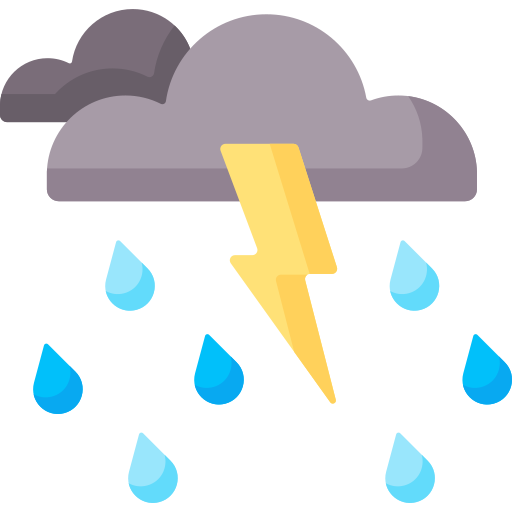
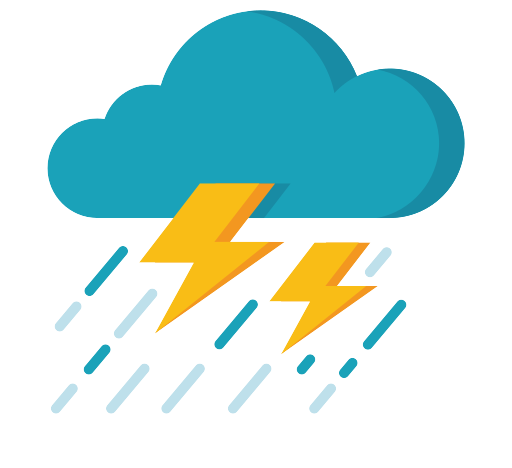
Cambios en el diseño

diff --git a/index.js b/index.js
@@ -10,7 +10,6 @@ window.addEventListener('load', ()=> {
     let descripcion = document.getElementById('descripcion')
     let imagen = document.getElementById('imagen_clima')
 
-    let sensacion = document.getElementById('sensacion')
     let viento = document.getElementById('viento')
     let humedad = document.getElementById('humedad')
 
@@ -65,44 +64,36 @@ window.addEventListener('load', ()=> {
                     ubicacion.textContent = data.name  // obtengo el nombre de la ciudad
                     datos.textContent = `${diaDeLaSemana} ${diaActual}, ${horaActual}:${minutosActuales}hs` // imprimo la fecha y hora del día en tiempo real
 
-                    
-                    temperatura.textContent = Math.round(data.main.temp) + '°C' // obtengo la temperatura y la imprimo 
-                    descripcion.textContent = data.weather[0].description // obtengo la descripción del clima y la imprimo 
-
-                    sensacion.textContent = Math.round(data.main.feels_like) + '°C' // obtengo la sensación térmica y la imprimo
-                    viento.textContent = `${data.wind.speed}m/s` // obtengo la velocidad del viento y la imprimo 
-                    humedad.textContent = `${data.main.humidity}%` // obtengo el % de humedad y al imprimo 
-
                     let codigoImg = data.weather[0].icon; // obtengo el código de tipo de clima
                     // creo un condiciona que devuelve una imagen de acuerdo al código del clima*/
-                    if(codigoImg == '01d'){
-                        imagen.src='img/dia_despejado.png';
+                    if(codigoImg == '01d' || codigoImg == '01n'){
+                        imagen.src='img/despejado.png.png';
                     }
-                    else if(codigoImg == '02d'){
-                        imagen.src='img/dia_nublado.png';
-                    }
-                    else if(codigoImg == '03d' || codigoImg == '03n' || codigoImg == '04d' || codigoImg == '04n'){
+                    else if(codigoImg == '02d' || codigoImg == '02n' || codigoImg == '03d' || codigoImg == '03n' || codigoImg == '04d' || codigoImg == '04n'){
                         imagen.src='img/nublado.png';
                     }
                     else if(codigoImg == '09d' || codigoImg == '09n'){
-                        imagen.src='img/lluvia.png';
+                        imagen.src='img/lluvioso.png.png.png';
                     }
                     else if(codigoImg == '11d' || codigoImg == '11n'){
-                        imagen.src='img/tormenta.png';
-                    }
-                    else if(codigoImg == '01n'){
-                        imagen.src='img/noche_despejadaa.png';
-                    }
-                    else if(codigoImg == '02n'){
-                        imagen.src='img/noche_nublada.png';
+                        imagen.src='img/tormenta.png.png';
                     }
                     else if(codigoImg == '13d' || codigoImg =='13n'){
                         imagen.src='img/nieve.png';
                     }
                     else{
-                        imagen.src='img/neblina.png'
+                        imagen.src='img/neblina.png.png'
                     }
+                    
+                    temperatura.textContent = Math.round(data.main.temp) + '°C' // obtengo la temperatura y la imprimo 
+                    descripcion.textContent = data.weather[0].description // obtengo la descripción del clima y la imprimo 
+
+                    viento.textContent = `${data.wind.speed}m/s` // obtengo la velocidad del viento y la imprimo 
+                    humedad.textContent = `${data.main.humidity}%` // obtengo el % de humedad y al imprimo 
                 })
+            .catch( error => {
+                console.log(error)
+            })
         })
     }
 })

diff --git a/style.css b/style.css
@@ -1,19 +1,29 @@
 @import url('https://fonts.googleapis.com/css2?family=Montserrat&family=Roboto+Flex:opsz@8..144&display=swap');
 
-body{
+*{
+    margin: 0;
+    padding: 0;
+    border: 0;
+    outline: none;
     box-sizing: border-box;
+}
+
+body{
     height: 100vh;
     display: flex;
     justify-content: center;
     align-items: center;
     font-family: 'Roboto Flex', sans-serif;
-    background-color: #2c2d2e;
+    background-color: #06283D;
 }
 
 
 .container{
-    background-color: #dddddd;
-    border-radius: 10px;
+    width: 300px;
+    background-color: #ffffff;
+    border-radius: 18px;
+    color: #06283D;
+    padding: 28px 32px;
 }
 
 .seccion-datos-ciudad{
@@ -25,72 +35,46 @@ body{
     margin-bottom: 0;
 }
 
-.seccion-datos-ciudad p{
-    margin-top: 0;
-}
-
-.seccion-temperatura{
-    display: flex;
-    justify-content: center;
-    text-align: center;
-    align-items: center;
-
-}
-
-.seccion-temperatura h2{
-    font-size: 70px;
-    margin: 0;
-}
-
-.seccion-temperatura .temp-desc{
-    margin-right: 20px;
-}
-
-.seccion-temperatura p{
-    margin: 0;
-    color: #767676;
-    font-weight: 500;
-}
 
 .seccion-temperatura img{
     width: 100px;
+    margin-top: 20px;
+}
+
+.seccion-temperatura{
+    text-align: center;
+}
+
+.seccion-temperatura #temperatura{
+    font-size: 70px;
+    font-weight: 800;
+    margin-top: 10px;
+}
+
+.seccion-temperatura #descripcion{
+    font-size: 20px;
+    font-weight: 500;
 }
 
 .seccion-info-adicional{
+    width: 100%;
     display: flex;
-    justify-content: space-around;
-    text-align: center;
-    gap: 15px;
-    margin: 15px;
-    color: white;
+    justify-content: space-between;
+    margin-top: 20px;
+}
+
+.seccion-info-adicional .info-humedad, .seccion-info-adicional .info-viento{
+    display: flex;
+    align-items: center;
 }
 
 .seccion-info-adicional i{
-    font-size: 30px;
-}
-
-.seccion-info-adicional h3{
-    margin: 10px;
+    font-size: 26px;
+    color: #06283D;
+    margin-right: 10px;
 }
 
 .seccion-info-adicional p{
-    margin: 0;
-}
-
-.info-sensacion{
-    padding: 10px;
-    background-color: #8488B5;
-    border-radius: 10px;
-}
-
-.info-viento{
-    padding: 10px;
-    background-color: #61678B;
-    border-radius: 10px;
-}
-
-.info-humedad{
-    padding: 10px;
-    background-color: #78ACC1;
-    border-radius: 10px;
+    font-size: 14px;
+    font-weight: 500;
 }

diff --git a/index.html b/index.html
@@ -5,7 +5,6 @@
     <meta name="viewport" content="width=device-width, initial-scale=1.0">
     <title>Clima</title>
     <link rel="stylesheet" href="style.css">
-    <link rel="stylesheet" href="https://cdn.jsdelivr.net/npm/bootstrap-icons@1.11.3/font/bootstrap-icons.min.css">
 </head>
 <body>
 
@@ -16,35 +15,30 @@
 
         </div>
         <div class="seccion-temperatura"> <!--Caja que contiene la temperatura, descripción del clima e imagen-->
-            <div class="temp-desc">
-                <h2 id="temperatura"></h2>
-                <p id="descripcion"></p>
-            </div>
-            <div>
-                <img id="imagen_clima" src="" alt="">
-            </div>
+            <img id="imagen_clima" src="" alt="">
+            <h2 id="temperatura"></h2>
+            <p id="descripcion"></p>
         </div>
 
-        <div class="seccion-info-adicional"> <!--Caja que contine la sensación térmica, velocidad del viento y % de humedad-->
-            <div class="info-sensacion">
-                <i class="bi bi-thermometer-high"></i>
-                <h3 id="sensacion"></h3>
-                <p>Sensación</p>
-            </div>
+        <div class="seccion-info-adicional"> <!--Caja que contine velocidad del viento y % de humedad-->
             <div class="info-viento">
-                <i class="bi bi-wind"></i>
-                <h3 id="viento"></h3>
-                <p>Viento</p>
+                <i class="fa-solid fa-wind"></i>
+                <div>
+                    <h3 id="viento"></h3>
+                    <p>Viento</p>
+                </div>
             </div>
             <div class="info-humedad">
-                <i class="bi bi-droplet"></i>
-                <h3 id="humedad"></h3>
-                <p>Humedad</p>
+                <i class="fa-solid fa-water"></i>
+                <div>
+                    <h3 id="humedad"></h3>
+                    <p>Humedad</p>
+                </div>
             </div>
         </div>
     </div>
 
     <script src="app.js"></script>
-    
+    <script src="https://kit.fontawesome.com/7c8801c017.js" crossorigin="anonymous"></script>
 </body>
 </html>
